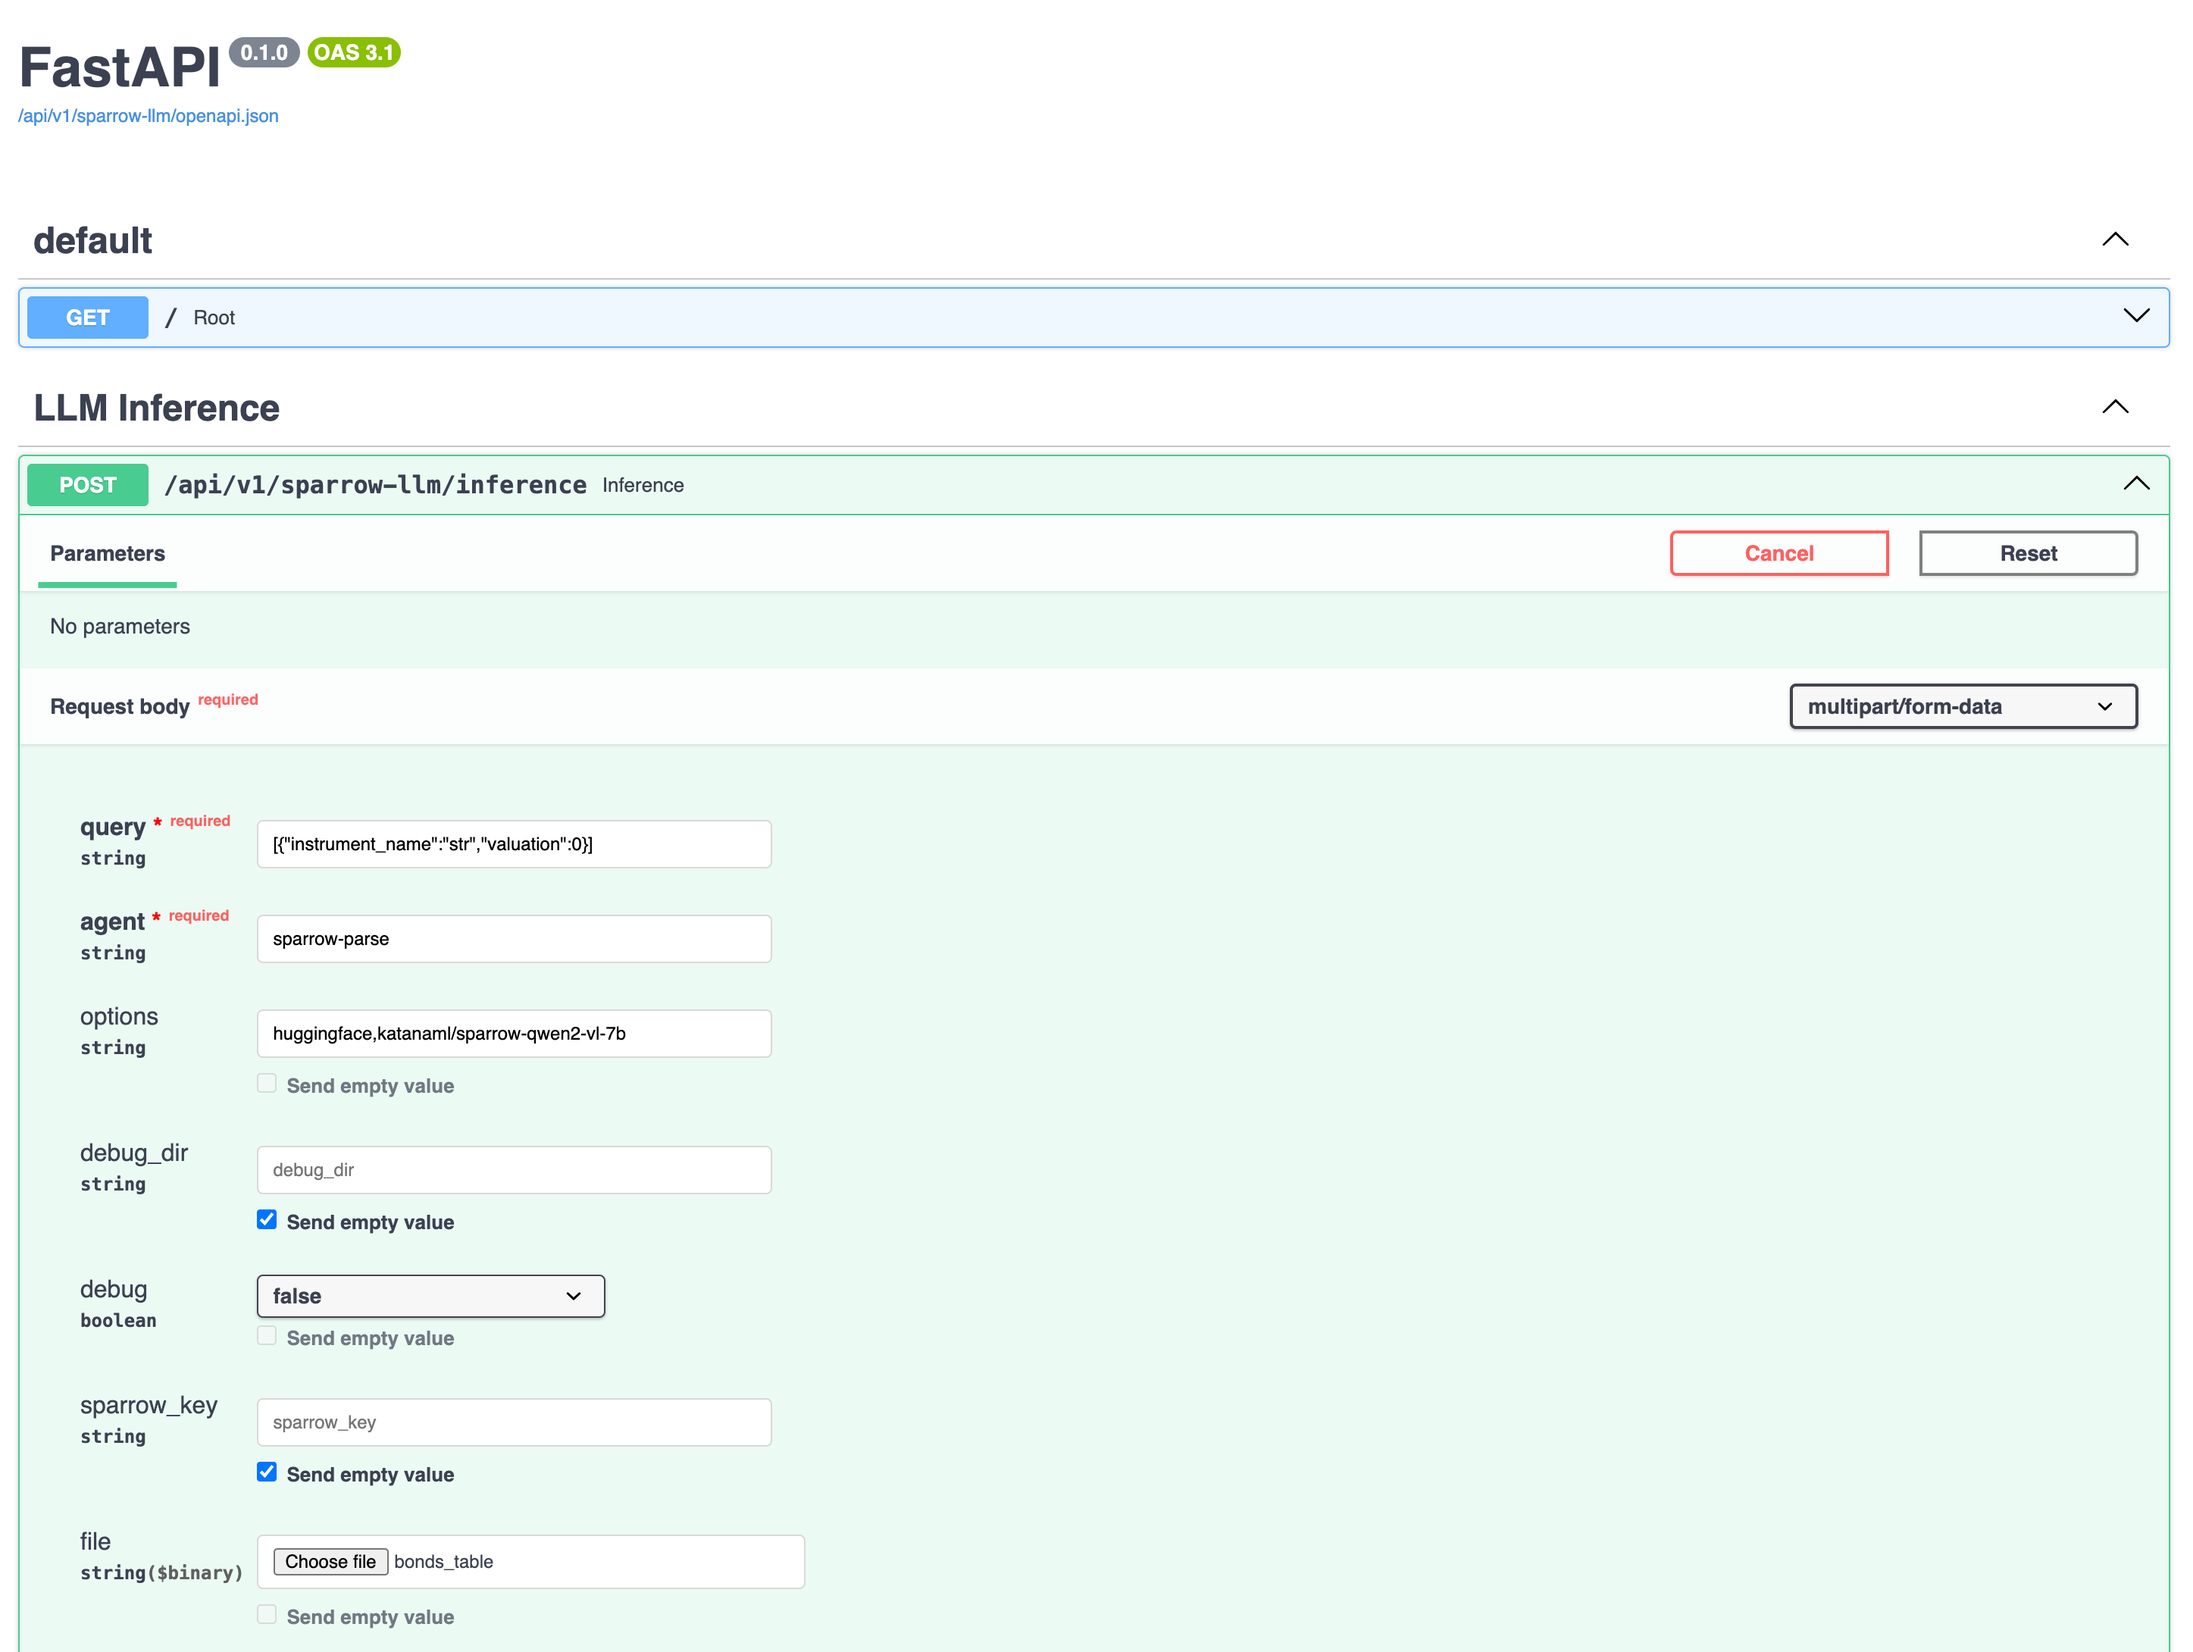
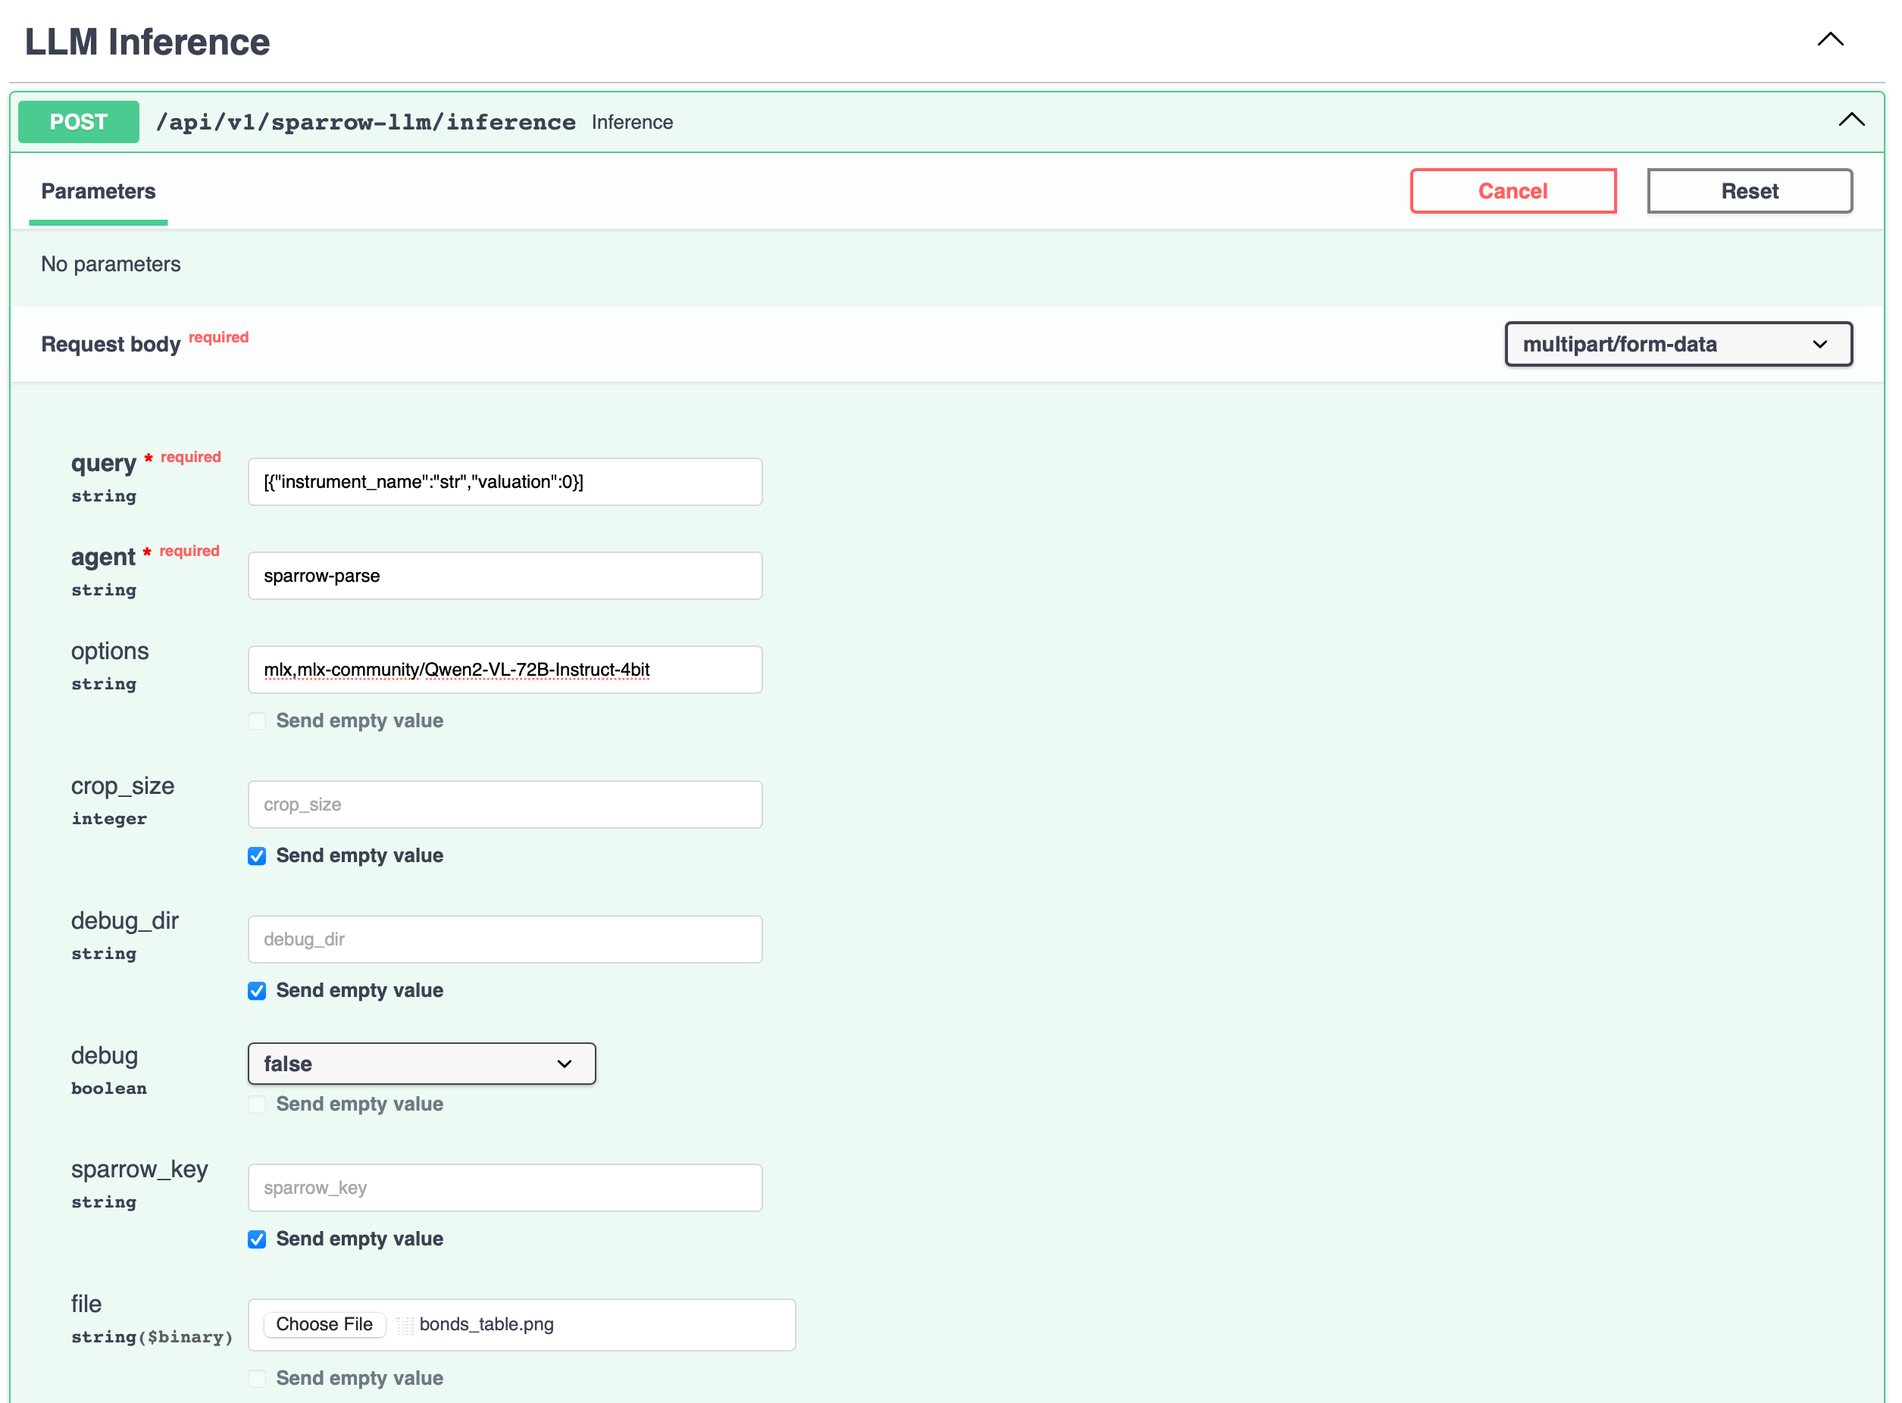
Sparrow API support for crop size

diff --git a/sparrow-ml/llm/api.py b/sparrow-ml/llm/api.py
@@ -3,7 +3,7 @@ from fastapi.middleware.cors import CORSMiddleware
 from engine import run_from_api_engine
 import uvicorn
 import warnings
-from typing import Annotated
+from typing import Annotated, Optional
 import json
 import argparse
 from dotenv import load_dotenv
@@ -52,16 +52,31 @@ def root():
     return {"message": "Sparrow LLM API"}
 
 
+def parse_optional_int(value: Optional[str]) -> Optional[int]:
+    """Handle empty strings and None values for integer fields."""
+    if value is None or value.strip() == "":
+        return None
+    try:
+        return int(value)
+    except ValueError:
+        raise ValueError("Invalid integer value provided")
+
+
 @app.post("/api/v1/sparrow-llm/inference", tags=["LLM Inference"])
 async def inference(
         query: Annotated[str, Form()],
         agent: Annotated[str, Form()],
-        options: Annotated[str, Form()] = None,
-        debug_dir: Annotated[str, Form()] = None,
-        debug: Annotated[bool, Form()] = False,
-        sparrow_key: Annotated[str, Form()] = None,
+        options: Annotated[Optional[str], Form()] = None,
+        crop_size: Annotated[Optional[str], Form()] = None,
+        debug_dir: Annotated[Optional[str], Form()] = None,
+        debug: Annotated[Optional[bool], Form()] = False,
+        sparrow_key: Annotated[Optional[str], Form()] = None,
         file: UploadFile = File(None)
         ):
+    try:
+        processed_crop_size = parse_optional_int(crop_size)
+    except ValueError:
+        raise HTTPException(status_code=422, detail="crop_size must be a valid integer or empty")
 
     protected_access = cfg.PROTECTED_ACCESS
     if protected_access:
@@ -97,7 +112,7 @@ async def inference(
     options_arr = [param.strip() for param in options.split(',')] if options is not None else None
 
     try:
-        answer = await run_from_api_engine(agent, query, options_arr, file, debug_dir, debug)
+        answer = await run_from_api_engine(agent, query, options_arr, processed_crop_size, file, debug_dir, debug)
     except ValueError as e:
         raise HTTPException(status_code=418, detail=str(e))
 

diff --git a/sparrow-ml/llm/engine.py b/sparrow-ml/llm/engine.py
@@ -38,7 +38,7 @@ def run(query: Annotated[str, typer.Argument(help="The list of fields to fetch")
         print(f"Caught an exception: {e}")
 
 
-async def run_from_api_engine(user_selected_agent, query, options_arr, file, debug_dir, debug):
+async def run_from_api_engine(user_selected_agent, query, options_arr, crop_size, file, debug_dir, debug):
     try:
         rag = get_pipeline(user_selected_agent)
 
@@ -51,9 +51,11 @@ async def run_from_api_engine(user_selected_agent, query, options_arr, file, deb
                     content = await file.read()
                     temp_file.write(content)
 
-                answer = rag.run_pipeline(user_selected_agent, query, temp_file_path, options_arr, debug_dir, debug, False)
+                answer = rag.run_pipeline(user_selected_agent, query, temp_file_path, options_arr, crop_size, debug_dir,
+                                          debug, False)
         else:
-            answer = rag.run_pipeline(user_selected_agent, query, options_arr, debug_dir, debug, False)
+            answer = rag.run_pipeline(user_selected_agent, query, None, options_arr, crop_size, debug_dir,
+                                      debug, False)
     except ValueError as e:
         raise e
 
